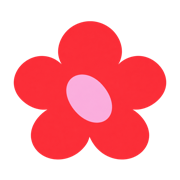
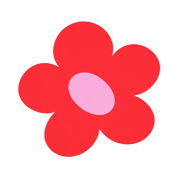
홈 화면 아이콘에 사용자 제공 흰 배경 꽃 적용 (#39)
* 사용자 제공 흰 배경 꽃 이미지로 홈 화면 아이콘 교체

* 아이폰 공개 아이콘 주소를 흰 배경 이미지로 갱신

Changed region(s): [[0.1111, 0.3611, 0.9444, 0.8889], [0.0556, 0.1111, 0.8889, 0.5556], [0.3611, 0.3889, 0.6389, 0.6944]]

diff --git a/app/index.html b/app/index.html
@@ -1,3 +1,3 @@
 <!doctype html>
-<html lang="ko"><head><meta charset="UTF-8"><meta name="viewport" content="width=device-width, initial-scale=1"><meta name="theme-color" content="#FD3936"><title>보미 — 하나만 해볼까요?</title><link rel="icon" href="/assets/flower-stage-3.png" type="image/png"><link rel="apple-touch-icon" sizes="180x180" href="https://raw.githubusercontent.com/kjmin9789/bomi/415755fc72fcb1b3fc20af2c71257e3d4894ec0e/app/assets/apple-touch-icon.png"><link rel="manifest" href="/manifest.webmanifest"><link rel="stylesheet" href="/style.css"></head>
+<html lang="ko"><head><meta charset="UTF-8"><meta name="viewport" content="width=device-width, initial-scale=1"><meta name="theme-color" content="#FD3936"><title>보미 — 하나만 해볼까요?</title><link rel="icon" href="/assets/flower-stage-3.png" type="image/png"><link rel="apple-touch-icon" sizes="180x180" href="https://raw.githubusercontent.com/kjmin9789/bomi/89735764e45bc1f9c7ba26bd26425075aefef971/app/assets/apple-touch-icon.png"><link rel="manifest" href="/manifest.webmanifest"><link rel="stylesheet" href="/style.css"></head>
 <body><div id="app"></div><dialog id="dialog"></dialog><div id="toast" role="status" aria-live="polite"></div><script type="module" src="/app.js"></script></body></html>

diff --git a/cloud/worker.js b/cloud/worker.js
@@ -6,7 +6,7 @@ const MAX_BODY = 1024 * 1024;
 const keySets = new Map();
 const headers = {
   'Cache-Control':'no-store', 'X-Content-Type-Options':'nosniff', 'Referrer-Policy':'no-referrer',
-  'Content-Security-Policy':"default-src 'self'; script-src 'self'; style-src 'self' 'unsafe-inline'; img-src 'self' data: https://raw.githubusercontent.com/kjmin9789/bomi/415755fc72fcb1b3fc20af2c71257e3d4894ec0e/app/assets/apple-touch-icon.png; connect-src 'self' http://127.0.0.1:4174; worker-src 'self'; object-src 'none'; base-uri 'none'; frame-ancestors 'none'"
+  'Content-Security-Policy':"default-src 'self'; script-src 'self'; style-src 'self' 'unsafe-inline'; img-src 'self' data: https://raw.githubusercontent.com/kjmin9789/bomi/89735764e45bc1f9c7ba26bd26425075aefef971/app/assets/apple-touch-icon.png; connect-src 'self' http://127.0.0.1:4174; worker-src 'self'; object-src 'none'; base-uri 'none'; frame-ancestors 'none'"
 };
 const json = (status, body) => Response.json(body, {status, headers});
 const failure = (status, message) => Object.assign(new Error(message), {status});
